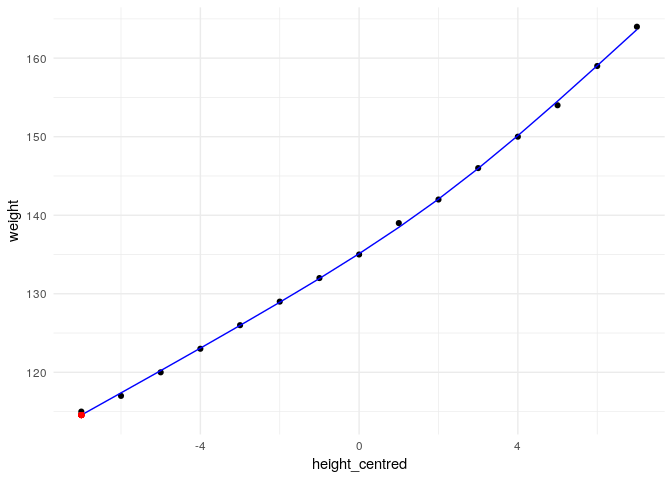
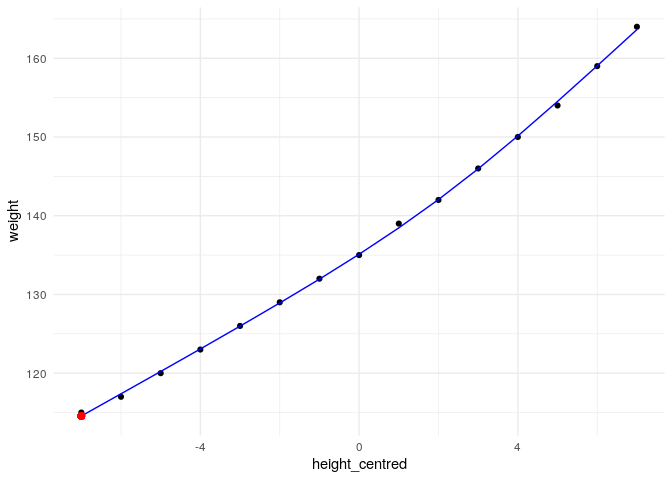
Tidied up example in readme

diff --git a/README.md b/README.md
@@ -26,13 +26,34 @@ library(knitr)   # kable()
 library(splines) # ns()
 library(splintr) # splintr()
 library(ggplot2) # ggplot()
+library(dplyr)   # %>%
 theme_set(theme_minimal())
 ```
+
+``` r
+women <- women %>%
+  mutate(height_centred = height - mean(height))
+women %>%
+  head() %>%
+  kable()
+```
+
+|  height|  weight|  height\_centred|
+|-------:|-------:|----------------:|
+|      58|     115|               -7|
+|      59|     117|               -6|
+|      60|     120|               -5|
+|      61|     123|               -4|
+|      62|     126|               -3|
+|      63|     129|               -2|
 
 Using `splines::ns()` in a model formula as below, the model intercept represents the estimated value of `weight` at the first boundary knot, i.e. when `height` takes its minimum value of 58.
 
 ``` r
-kable(tidy(fm0 <- lm(weight ~ ns(height, df = 3), data = women), quick = TRUE))
+fit0 <- lm(weight ~ ns(height, df = 3), data = women)
+fit0 %>%
+  tidy(quick = TRUE) %>%
+  kable()
 ```
 
 | term                |   estimate|
@@ -43,18 +64,20 @@ kable(tidy(fm0 <- lm(weight ~ ns(height, df = 3), data = women), quick = TRUE))
 | ns(height, df = 3)3 |   41.66370|
 
 ``` r
-attr(ns(women$height, df = 3), "Boundary.knots")
+(knots <- ns(women$height, df = 3) %>%
+  attr("Boundary.knots"))
 #> [1] 58 72
-predict(fm0, newdata = data.frame(height = 0))
+predict(fit0, newdata = data.frame(height = 0))
 #>         1 
 #> -49.06522
-predict(fm0, newdata = data.frame(height = 58))
+predict(fit0, newdata = data.frame(height = knots[1]))
 #>        1 
 #> 114.5595
-ggplot(augment(fm0, data = women), aes(x = height)) +
+augment(fit0, data = women) %>%
+  ggplot(aes(x = height)) +
   geom_point(aes(y = weight)) +
   geom_line(aes(y = .fitted), col = "blue") +
-  geom_point(data = NULL, aes(x = 58, y = coef(fm0)[1]), col = "red")
+  geom_point(data = NULL, aes(x = knots[1], y = coef(fit0)[1]), col = "red", size = 2)
 ```
 
 <img src="man/figures/README-example1-1.png" width="100%" />
@@ -62,8 +85,10 @@ ggplot(augment(fm0, data = women), aes(x = height)) +
 Centring the predictor does not change the model intercept.
 
 ``` r
-women$height_centred <- women$height - mean(women$height)
-kable(tidy(fm1 <- lm(weight ~ ns(height_centred, df = 3), data = women), quick = TRUE))
+fit1 <- lm(weight ~ ns(height_centred, df = 3), data = women)
+fit1 %>%
+  tidy(quick = TRUE) %>%
+  kable()
 ```
 
 | term                         |   estimate|
@@ -74,18 +99,20 @@ kable(tidy(fm1 <- lm(weight ~ ns(height_centred, df = 3), data = women), quick =
 | ns(height\_centred, df = 3)3 |   41.66370|
 
 ``` r
-attr(ns(women$height_centred, df = 3), "Boundary.knots")
+(knots <- ns(women$height_centred, df = 3) %>%
+  attr("Boundary.knots"))
 #> [1] -7  7
-predict(fm1, newdata = data.frame(height_centred = 0))
+predict(fit1, newdata = data.frame(height_centred = 0))
 #>        1 
 #> 135.1067
-predict(fm1, newdata = data.frame(height_centred = -7))
+predict(fit1, newdata = data.frame(height_centred = knots[1]))
 #>        1 
 #> 114.5595
-ggplot(augment(fm1, data = women), aes(x = height_centred)) +
+augment(fit1, data = women) %>%
+  ggplot(aes(x = height_centred)) +
   geom_point(aes(y = weight)) +
   geom_line(aes(y = .fitted), col = "blue") +
-  geom_point(data = NULL, aes(x = -7, y = coef(fm1)[1]), col = "red")
+  geom_point(data = NULL, aes(x = knots[1], y = coef(fit1)[1]), col = "red", size = 2)
 ```
 
 <img src="man/figures/README-example2-1.png" width="100%" />
@@ -93,7 +120,10 @@ ggplot(augment(fm1, data = women), aes(x = height_centred)) +
 Using `splintr()` instead, the intercept representes the estimated value of `weight` when the predictor `height_centred` takes a value of zero.
 
 ``` r
-kable(tidy(fm2 <- lm(weight ~ splintr(height_centred, df = 3), data = women), quick = TRUE))
+fit2 <- lm(weight ~ splintr(height_centred, df = 3), data = women)
+fit2 %>%
+  tidy(quick = TRUE) %>%
+  kable()
 ```
 
 | term                              |   estimate|
@@ -104,18 +134,17 @@ kable(tidy(fm2 <- lm(weight ~ splintr(height_centred, df = 3), data = women), qu
 | splintr(height\_centred, df = 3)3 |   41.66370|
 
 ``` r
-attr(splintr(women$height_centred, df = 3), "Boundary.knots")
+(knots <- splintr(women$height_centred, df = 3) %>%
+  attr("Boundary.knots"))
 #> [1] -7  7
-predict(fm2, newdata = data.frame(height_centred = 0))
+predict(fit2, newdata = data.frame(height_centred = 0))
 #>        1 
 #> 135.1067
-predict(fm2, newdata = data.frame(height_centred = -7))
-#>        1 
-#> 114.5595
-ggplot(augment(fm2, data = women), aes(x = height_centred)) +
+augment(fit2, data = women) %>%
+  ggplot(aes(x = height_centred)) +
   geom_point(aes(y = weight)) +
   geom_line(aes(y = .fitted), col = "blue") +
-  geom_point(data = NULL, aes(x = 0, y = coef(fm2)[1]), col = "red")
+  geom_point(data = NULL, aes(x = 0, y = coef(fit2)[1]), col = "red", size = 2)
 ```
 
 <img src="man/figures/README-example3-1.png" width="100%" />
@@ -124,7 +153,10 @@ Alternatively, an arbitrary "centre" can be specified directly in the `splintr()
 
 ``` r
 x_centre = 68.45
-kable(tidy(fm3 <- lm(weight ~ splintr(height, df = 3, centre = x_centre), data = women), quick = TRUE))
+fit3 <- lm(weight ~ splintr(height, df = 3, centre = x_centre), data = women)
+fit3 %>%
+  tidy(quick = TRUE) %>%
+  kable()
 ```
 
 | term                                         |   estimate|
@@ -135,15 +167,17 @@ kable(tidy(fm3 <- lm(weight ~ splintr(height, df = 3, centre = x_centre), data =
 | splintr(height, df = 3, centre = x\_centre)3 |   41.66370|
 
 ``` r
-attr(splintr(women$height, df = 3, centre = x_centre), "Boundary.knots")
+(knots <- splintr(women$height, df = 3, centre = x_centre) %>%
+  attr("Boundary.knots"))
 #> [1] 58 72
-predict(fm3, newdata = data.frame(height = x_centre))
+predict(fit3, newdata = data.frame(height = x_centre))
 #>        1 
 #> 147.8057
-ggplot(augment(fm2, data = women), aes(x = height)) +
+augment(fit3, data = women) %>%
+  ggplot(aes(x = height)) +
   geom_point(aes(y = weight)) +
   geom_line(aes(y = .fitted), col = "blue") +
-  geom_point(data = NULL, aes(x = x_centre, y = coef(fm3)[1]), col = "red")
+  geom_point(data = NULL, aes(x = x_centre, y = coef(fit3)[1]), col = "red", size = 2)
 ```
 
 <img src="man/figures/README-example4-1.png" width="100%" />
@@ -151,15 +185,15 @@ ggplot(augment(fm2, data = women), aes(x = height)) +
 The four models fit identically:
 
 ``` r
-kable(t(rbind(
-  fm0 = glance(fm0),
-  fm1 = glance(fm1),
-  fm2 = glance(fm2),
-  fm3 = glance(fm3)
-)))
+rbind(fit0 = glance(fit0),
+      fit1 = glance(fit1),
+      fit2 = glance(fit2),
+      fit3 = glance(fit3)) %>%
+  t() %>%
+  kable()
 ```
 
-|               |            fm0|            fm1|            fm2|            fm3|
+|               |           fit0|           fit1|           fit2|           fit3|
 |---------------|--------------:|--------------:|--------------:|--------------:|
 | r.squared     |      0.9996629|      0.9996629|      0.9996629|      0.9996629|
 | adj.r.squared |      0.9995710|      0.9995710|      0.9995710|      0.9995710|
